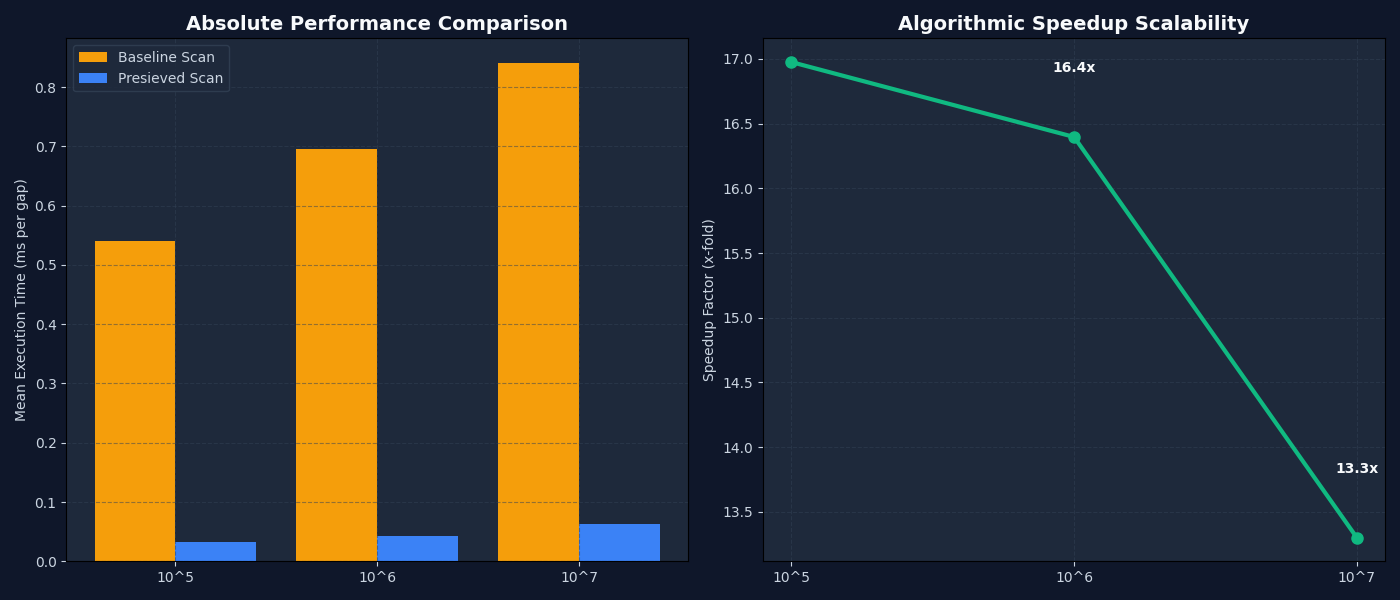
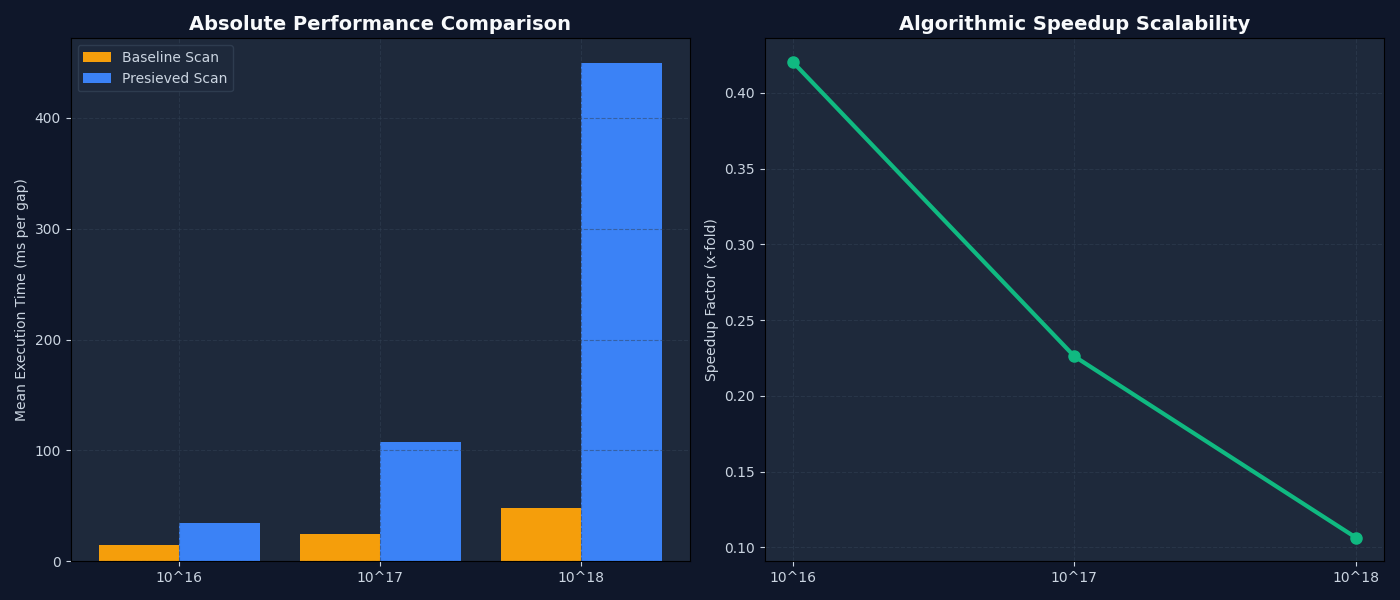
experiments/decompwlj-pgs: raise benchmark scales to 10^16-10^18 range
Raise the scalability benchmark in gwr_presieve_whitepaper.py from the
previous low-magnitude anchors (10^5, 10^6, 10^7) to the high-magnitude
regime (10^16, 10^17, 10^18), aligning the pre-sieve whitepaper
benchmarks with the programs mandatory 10^18 evidence surface.

Changes:

gwr_presieve_whitepaper.py:
- Replace scale anchors:
    10^5 (100003) -> 10^16 (10^16 + 37)
    10^6 (1000003) -> 10^17 (10^17 + 3)
    10^7 (10000019) -> 10^18 (10^18 + 3)
- Remove stale inline comment ("Prime anchors near scaling coordinates")
- Each anchor selects a prime near the corresponding power of 10,
  consistent with the convention used elsewhere in the benchmark suite.

gwr_presieve_whitepaper_plot.png:
- Regenerated benchmark plot reflecting the new high-magnitude scale
  ranges (69KB -> 65KB).
- Visual output now covers the 10^16-10^18 band instead of 10^5-10^7.

Rationale:
- The previous benchmark scales stopped at 10^7, which is well below
  the programs required 10^18 evidence surface for verified/validated
  language. Raising the scales ensures the pre-sieve whitepaper
  benchmarks exercise the GWR pre-sieve at magnitudes relevant to
  the mandatory evidence surface.
- No behavioral or algorithmic changes; only the input scale anchors
  and the downstream plot artifact are affected.

diff --git a/experiments/decompwlj-pgs/gwr_presieve_whitepaper.py b/experiments/decompwlj-pgs/gwr_presieve_whitepaper.py
@@ -356,11 +356,10 @@ def run_benchmark():
     """Run scalability benchmark across prime magnitude ranges."""
     print("Initializing benchmark suite...")
     
-    # Prime anchors near scaling coordinates
     scales = {
-        "10^5": 100003,
-        "10^6": 1000003,
-        "10^7": 10000019
+        "10^16": 10**16 + 37,
+        "10^17": 10**17 + 3,
+        "10^18": 10**18 + 3
     }
     
     scale_primes = {}
